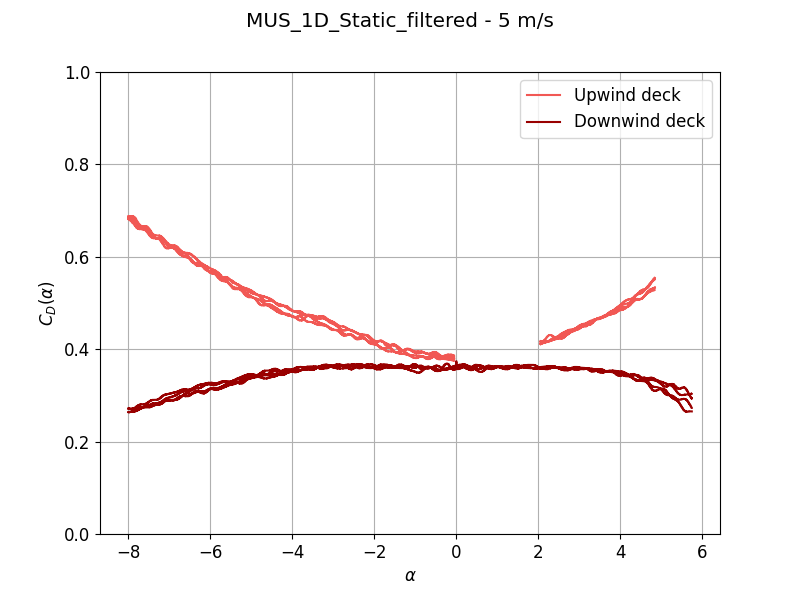
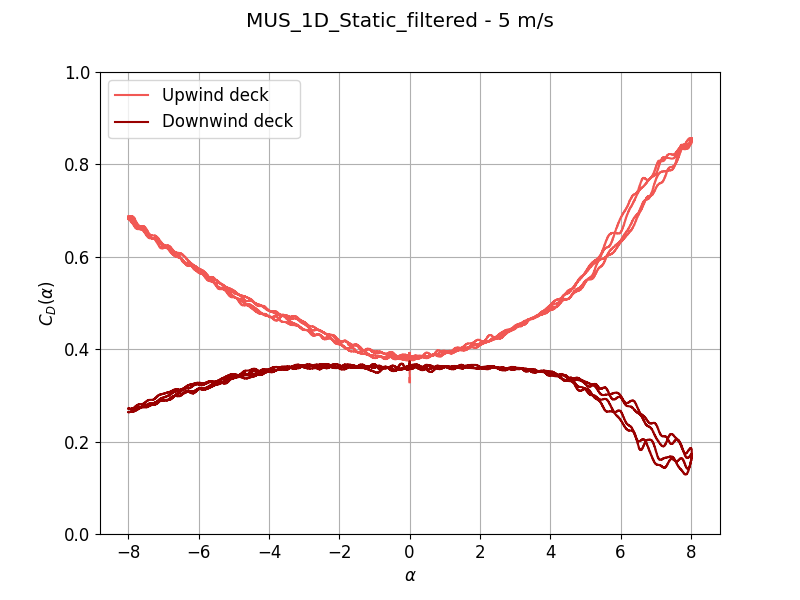
debugge

diff --git a/HAR_INT/static_coeff.py b/HAR_INT/static_coeff.py
@@ -296,7 +296,7 @@ plt.savefig( os.path.join(r"C:\Users\liner\Documents\Github\Masteroppgave\HAR_IN
 #%%  Filter and plot ALT 2
 section_name = "MUS_1D_Static_filtered" 
 
-static_coeff_MDS_1D_6_filtered, static_coeff_MDS_1D_8_filtered, static_coeff_MDS_1D_10_filtered = w3t._scoff.filter_by_reference(static_coeff_1=static_coeff_MDS_1D_6, static_coeff_2=static_coeff_MDS_1D_8, static_coeff_3=static_coeff_MDS_1D_10, threshold=0.08, threshold_low=[0.08,0.05,0.05],threshold_med = [0.02,0.03,0.05],threshold_high=[0.05,0.05,0.05],single=False)
+static_coeff_MDS_1D_6_filtered, static_coeff_MDS_1D_8_filtered, static_coeff_MDS_1D_10_filtered = w3t._scoff.filter_by_reference(static_coeff_1=static_coeff_MDS_1D_6, static_coeff_2=static_coeff_MDS_1D_8, static_coeff_3=static_coeff_MDS_1D_10, threshold=0.1, threshold_low=[0.05,0.05,0.05],threshold_med = [0.02,0.03,0.05],threshold_high=[0.05,0.05,0.05],single=False)
 
 plot_static_coeff_summary(static_coeff_MDS_1D_6_filtered, section_name, 6, mode="decks", upwind_in_rig=False)
 plot_static_coeff_summary(static_coeff_MDS_1D_8_filtered, section_name, 8, mode="decks", upwind_in_rig=False)
@@ -414,7 +414,7 @@ plt.savefig( os.path.join(r"C:\Users\liner\Documents\Github\Masteroppgave\HAR_IN
 #%%  Filter and plot ALT 2
 section_name = "MDS_1D_Static_filtered"
 
-static_coeff_MUS_1D_5_filtered, static_coeff_MUS_1D_10_filtered = w3t._scoff.filter_by_reference(static_coeff_1=static_coeff_MUS_1D_5, static_coeff_2=static_coeff_MUS_1D_10, threshold=0.08, threshold_low=[0.03,0.03,0.02],threshold_high=[0.04,0.02,0.001],single=False)
+static_coeff_MUS_1D_5_filtered, static_coeff_MUS_1D_10_filtered = w3t._scoff.filter_by_reference(static_coeff_1=static_coeff_MUS_1D_5, static_coeff_2=static_coeff_MUS_1D_10, threshold=0.05, threshold_low=[0.1,0.03,0.02],threshold_high=[0.1,0.02,0.001],single=False)
 
 
 plot_static_coeff_summary(static_coeff_MUS_1D_5_filtered, section_name, 5, mode="decks", upwind_in_rig=True)

diff --git a/w3tp/w3t/_scoff.py b/w3tp/w3t/_scoff.py
@@ -1581,7 +1581,7 @@ def filter_by_reference(static_coeff_1, static_coeff_2, threshold=0.1, threshold
  
     alpha, drag_1, lift_1, pitch_1 = get_coeffs(static_coeff_1)
     #ettersom alpha er rundet opp til 1 desimal, er alle alphaer til hver tidsserie like, og man trenger egt ikke skille mellom alphaene i forsøket. Men koden blir litt mer robust.
-    _, drag_2, lift_2, pitch_2 = get_coeffs(static_coeff_1)
+    _, drag_2, lift_2, pitch_2 = get_coeffs(static_coeff_2)
  
     drag_1_filt, lift_1_filt, pitch_1_filt = drag_1.copy(), lift_1.copy(), pitch_1.copy()
     drag_2_filt, lift_2_filt, pitch_2_filt = drag_2.copy(), lift_2.copy(), pitch_2.copy()
